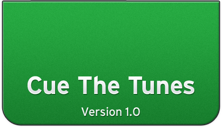
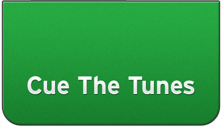
(Build 212) - Added true version with build number to About header, cut questions to 100 (not 101...)

Changed region(s): [[0.3514, 0.8125, 0.6486, 0.9375]]

diff --git a/Cue The Tunes/Classes/Auxilary Views/AboutViewController.m b/Cue The Tunes/Classes/Auxilary Views/AboutViewController.m
@@ -29,7 +29,7 @@
 
 @implementation AboutViewController
 
-@synthesize titleLabelAbout = _titleLabelAbout, backButtonLabel = _backButtonLabel, backButton = _backButton, aboutTitleDropdown = _aboutTitleDropdown, textView = _textView;
+@synthesize titleLabelAbout = _titleLabelAbout, backButtonLabel = _backButtonLabel, backButton = _backButton, aboutTitleDropdown = _aboutTitleDropdown, textView = _textView, versionLabel = _versionLabel;
 
 - (void)didReceiveMemoryWarning {
     [super didReceiveMemoryWarning];
@@ -84,7 +84,7 @@
                 
             }
             if (label.tag == 3) {
-                //More info
+                //More info and version label
                 setDefaultStyleUsingLabel(label);
                 [label setFont:interstateBold(12)];
                 [label setOversampling:6];
@@ -98,6 +98,9 @@
             }
         }
     }
+    
+    [self.versionLabel setText:[[NSString alloc] initWithString:[prefs stringForKey:@"CURRENT_VERSION"]]];
+    [self.versionLabel setFont:interstateRegular(12)];
     
     [super viewDidLoad];
 }

diff --git a/Cue The Tunes/Classes/Cue_The_TunesAppDelegate.m b/Cue The Tunes/Classes/Cue_The_TunesAppDelegate.m
@@ -40,6 +40,9 @@
     self.navigationController = [[UINavigationController alloc] initWithRootViewController:controller];
     self.navigationController.navigationBarHidden = YES;
     
+    //Save current app version to prefs by creating string with version and build number, e.g. "Version 1.0 (23)"
+    [prefs setObject:[[[[[[NSString alloc] initWithString:@"Version "] stringByAppendingString:[[NSBundle mainBundle] objectForInfoDictionaryKey:@"CFBundleShortVersionString"]] stringByAppendingString:@" ("] stringByAppendingString:[[NSBundle mainBundle] objectForInfoDictionaryKey:@"CFBundleVersion"]] stringByAppendingString:@")"] forKey:@"CURRENT_VERSION"];
+    
     //Setup Audio Session
     [[AVAudioSession sharedInstance] setDelegate:self];
     [[AVAudioSession sharedInstance] setCategory:AVAudioSessionCategoryPlayback error:nil];

diff --git a/Cue The Tunes/Classes/Auxilary Views/AboutViewController.h b/Cue The Tunes/Classes/Auxilary Views/AboutViewController.h
@@ -33,14 +33,16 @@
     FXLabel *_backButtonLabel;
     UIButton *_backButton;
     UIView *_textView;
-    UIImageView *_aboutTitleDropdown;
+    UIView *_aboutTitleDropdown;
+    FXLabel *_versionLabel;
 }
 
 @property (nonatomic, strong) IBOutlet FXLabel *titleLabelAbout;
 @property (nonatomic, strong) IBOutlet FXLabel *backButtonLabel;
 @property (nonatomic, strong) IBOutlet UIButton *backButton;
-@property (nonatomic, strong) IBOutlet UIImageView *aboutTitleDropdown;
+@property (nonatomic, strong) IBOutlet UIView *aboutTitleDropdown;
 @property (nonatomic, strong) IBOutlet UIView *textView;
+@property (nonatomic, strong) IBOutlet FXLabel *versionLabel;
 
 - (IBAction)doneAboutView:(id)sender;
 - (void)animateTitleInWithDuration:(double )duration;
